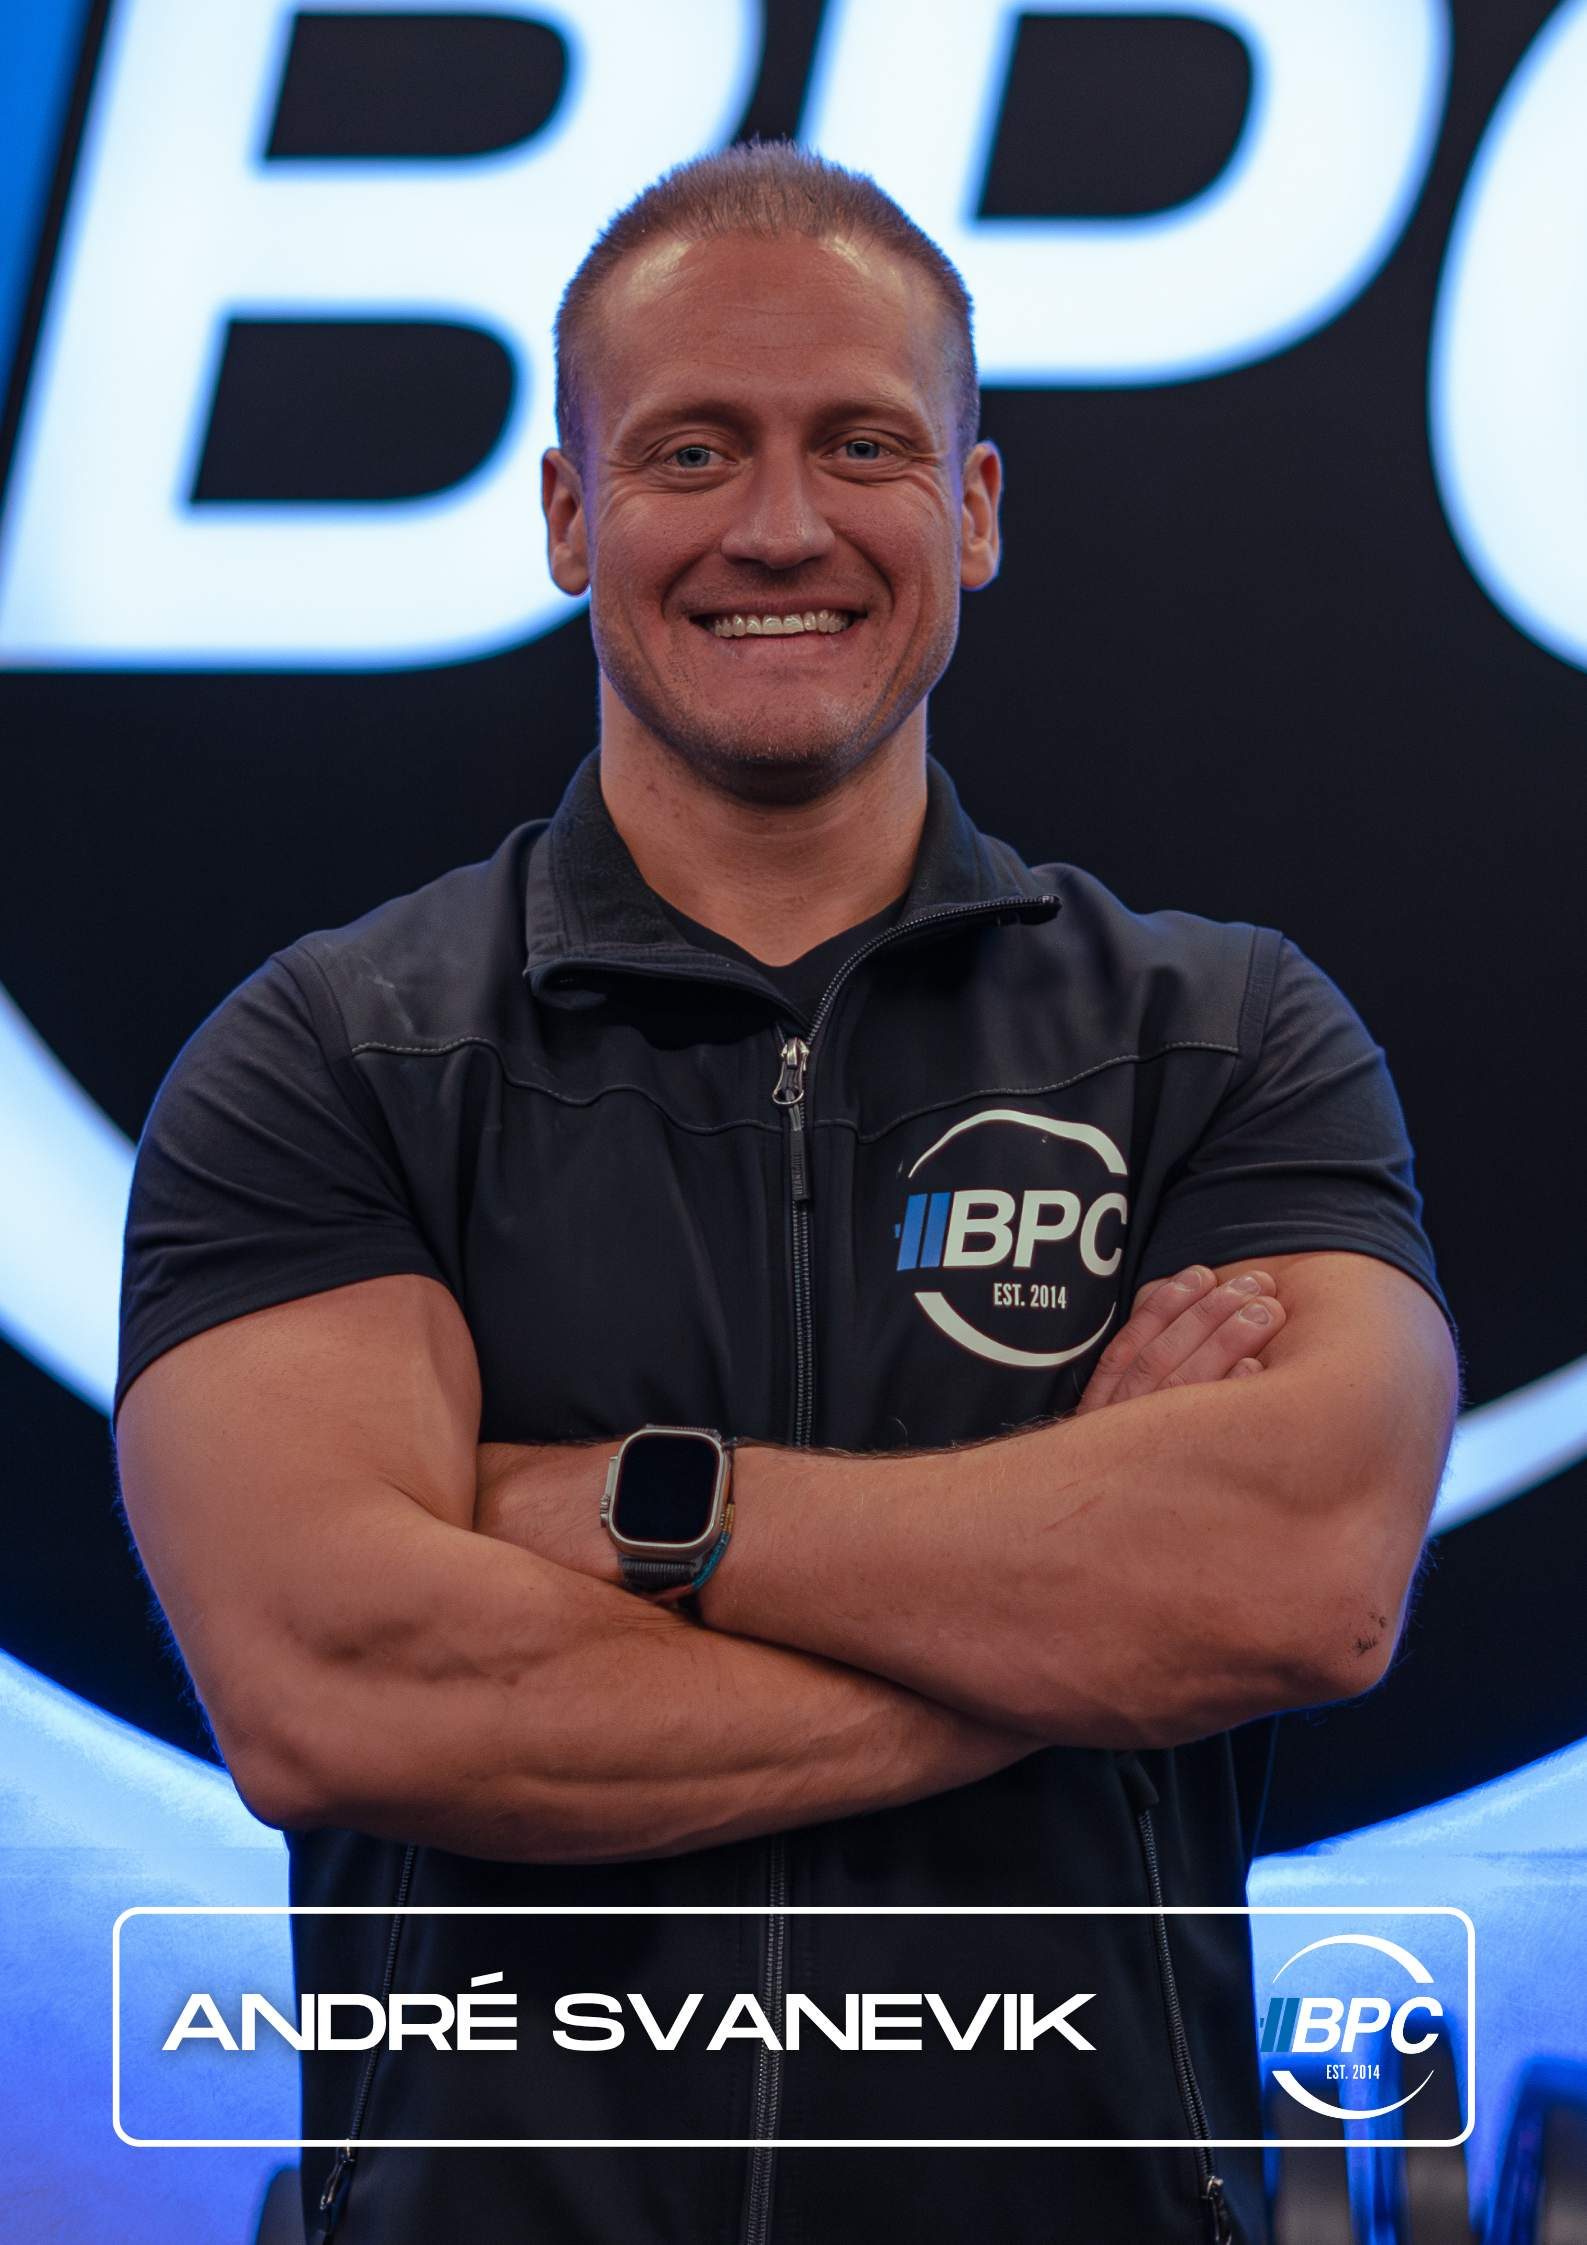
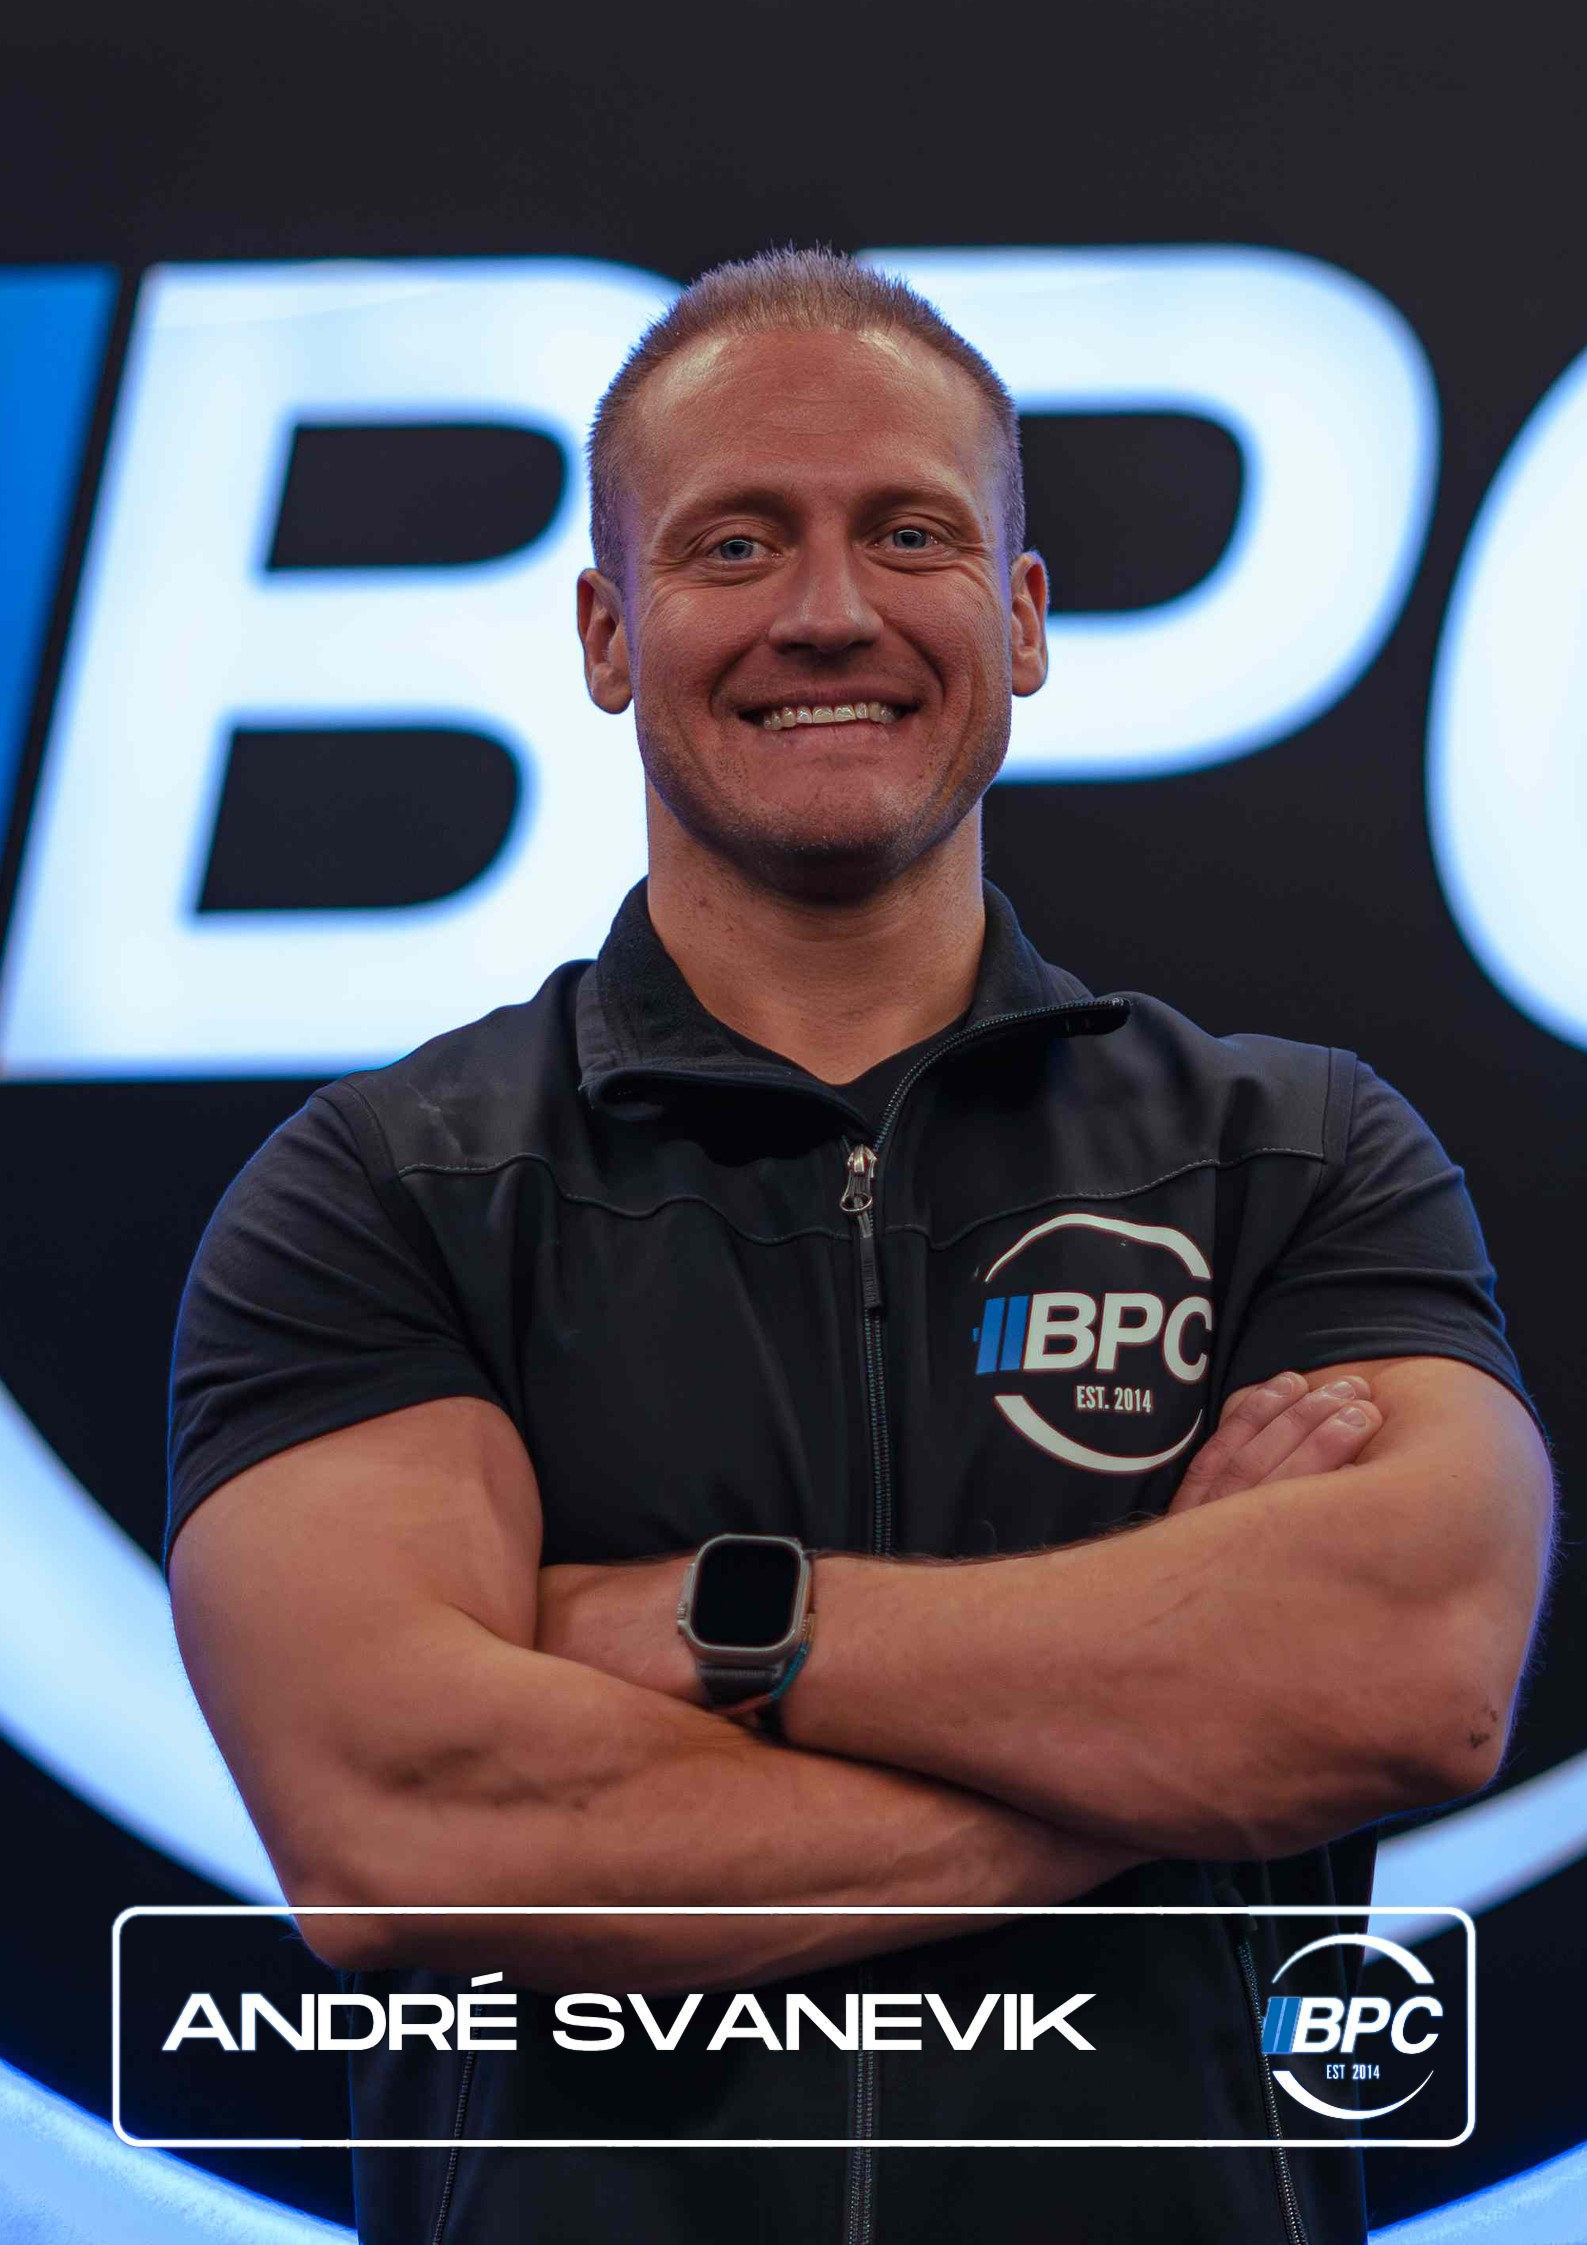
Update André portrait, compact team grid, dynamic membership cards
V0-Chat-Id: cHSRnCFDEbO

diff --git a/components/membership-cards.tsx b/components/membership-cards.tsx
@@ -1,6 +1,6 @@
 'use client'
 
-import { useEffect, useState } from 'react'
+import { useEffect, useRef, useState } from 'react'
 import { ArrowRight } from 'lucide-react'
 import { AppBadges } from '@/components/app-badges'
 import { SmartLink } from '@/components/smart-link'
@@ -16,6 +16,39 @@ const dotStyles: Record<TabColor, string> = {
   korttidGruppe: 'bg-korttid-gruppe',
   velvaere: 'bg-muted-foreground',
   dropin: 'bg-foreground',
+}
+
+const barStyles: Record<TabColor, string> = {
+  egen: 'before:bg-egen',
+  gruppe: 'before:bg-gruppe',
+  korttidEgen: 'before:bg-korttid-egen',
+  korttidGruppe: 'before:bg-korttid-gruppe',
+  velvaere: 'before:bg-muted-foreground',
+  dropin: 'before:bg-foreground',
+}
+
+function useActiveCard(panelKey: string) {
+  const panelRef = useRef<HTMLDivElement>(null)
+  const [activeIndex, setActiveIndex] = useState<number | null>(null)
+
+  useEffect(() => {
+    setActiveIndex(null)
+    const cards = panelRef.current?.querySelectorAll<HTMLElement>('[data-plan-card]')
+    if (!cards?.length) return
+    const list = Array.from(cards)
+    const observer = new IntersectionObserver(
+      (entries) => {
+        for (const entry of entries) {
+          if (entry.isIntersecting) setActiveIndex(list.indexOf(entry.target as HTMLElement))
+        }
+      },
+      { rootMargin: '-45% 0px -45% 0px' },
+    )
+    list.forEach((card) => observer.observe(card))
+    return () => observer.disconnect()
+  }, [panelKey])
+
+  return { panelRef, activeIndex }
 }
 
 const tabs = [
@@ -34,6 +67,7 @@ function PriceList({
   note,
   rows,
   href,
+  active = false,
 }: {
   title: string
   color: TabColor
@@ -41,19 +75,29 @@ function PriceList({
   note?: string
   rows: Row[]
   href?: string
+  active?: boolean
 }) {
   const content = (
     <>
       <header className="flex items-baseline justify-between gap-4 border-b border-border pb-3">
         <h3 className="flex items-center gap-2 text-sm font-semibold">
-          <span aria-hidden="true" className={cn('size-2 rounded-full', dotStyles[color])} />
+          <span
+            aria-hidden="true"
+            className={cn(
+              'size-2 rounded-full transition-transform duration-300 group-hover:scale-150 group-data-[active=true]:scale-150',
+              dotStyles[color],
+            )}
+          />
           {title}
         </h3>
         <span className="text-xs text-muted-foreground">{period}</span>
       </header>
-      <ul className="flex flex-col">
+      <ul className="-mx-2 flex flex-col">
         {rows.map((row) => (
-          <li key={row.name} className="flex items-baseline justify-between gap-4 py-2.5">
+          <li
+            key={row.name}
+            className="flex items-baseline justify-between gap-4 rounded-md px-2 py-2.5 transition-[background-color,transform] duration-200 hover:translate-x-1 hover:bg-muted/60 motion-reduce:hover:translate-x-0"
+          >
             <span className="flex flex-col">
               <span className="text-sm font-medium leading-snug">{row.name}</span>
               {row.note && <span className="text-xs text-muted-foreground">{row.note}</span>}
@@ -66,14 +110,37 @@ function PriceList({
     </>
   )
 
+  const cardClass = cn(
+    'group relative flex flex-col overflow-hidden rounded-xl border border-border bg-card px-5 py-4 transition-all duration-300 ease-out',
+    'before:absolute before:inset-y-0 before:left-0 before:w-1 before:origin-top before:scale-y-0 before:transition-transform before:duration-300',
+    'hover:-translate-y-0.5 hover:border-primary/50 hover:shadow-lg hover:before:scale-y-100',
+    'data-[active=true]:border-primary/50 data-[active=true]:before:scale-y-100',
+    'active:scale-[0.99] motion-reduce:transition-none motion-reduce:hover:translate-y-0',
+    barStyles[color],
+  )
+
   if (!href) {
-    return <article className="flex flex-col rounded-xl border border-border bg-card px-5 py-4">{content}</article>
+    return (
+      <article
+        tabIndex={0}
+        data-plan-card
+        data-active={active}
+        className={cn(cardClass, 'outline-none focus-visible:border-primary focus-visible:before:scale-y-100')}
+      >
+        {content}
+      </article>
+    )
   }
 
   return (
     <SmartLink
       href={href}
-      className="group flex flex-col rounded-xl border border-border bg-card px-5 py-4 transition-[transform,border-color,box-shadow] duration-300 hover:-translate-y-0.5 hover:border-foreground/30 hover:shadow-lg focus-visible:outline-none focus-visible:ring-2 focus-visible:ring-ring focus-visible:ring-offset-2 focus-visible:ring-offset-background motion-reduce:transition-none motion-reduce:hover:translate-y-0"
+      data-plan-card
+      data-active={active}
+      className={cn(
+        cardClass,
+        'focus-visible:outline-none focus-visible:ring-2 focus-visible:ring-ring focus-visible:ring-offset-2 focus-visible:ring-offset-background',
+      )}
     >
       {content}
       <span className="mt-auto flex items-center justify-end gap-1.5 border-t border-border pt-3 text-sm font-semibold text-foreground">
@@ -87,7 +154,7 @@ function PriceList({
   )
 }
 
-function PlanList({ group }: { group: PlanGroup }) {
+function PlanList({ group, active }: { group: PlanGroup; active: boolean }) {
   return (
     <PriceList
       title={group.title}
@@ -96,6 +163,7 @@ function PlanList({ group }: { group: PlanGroup }) {
       note={group.note}
       rows={group.plans}
       href={links.signup}
+      active={active}
     />
   )
 }
@@ -127,6 +195,7 @@ export function MembershipCards() {
   }
 
   const category = membershipCategories.find((c) => c.id === active)
+  const { panelRef, activeIndex } = useActiveCard(active)
 
   return (
     <div className="flex flex-col gap-5">
@@ -167,6 +236,7 @@ export function MembershipCards() {
         role="tabpanel"
         aria-labelledby={`tab-${active}`}
         key={active}
+        ref={panelRef}
         className="animate-in fade-in duration-300 flex flex-col gap-4 motion-reduce:animate-none"
       >
         <p className="max-w-2xl text-pretty text-sm leading-relaxed text-muted-foreground">
@@ -180,13 +250,13 @@ export function MembershipCards() {
               category.groups.length >= 3 ? 'md:grid-cols-2 lg:grid-cols-3' : 'md:grid-cols-2',
             )}
           >
-            {category.groups.map((group) => (
-              <PlanList key={group.title} group={group} />
+            {category.groups.map((group, index) => (
+              <PlanList key={group.title} group={group} active={activeIndex === index} />
             ))}
           </div>
         ) : (
           <div className="grid gap-3 md:grid-cols-2">
-            <PriceList title="Drop-in" color="dropin" period="Pr besøk" rows={dropIns} />
+            <PriceList title="Drop-in" color="dropin" period="Pr besøk" rows={dropIns} active={activeIndex === 0} />
           </div>
         )}
 

diff --git a/components/team-grid.tsx b/components/team-grid.tsx
@@ -26,35 +26,38 @@ export function TeamGrid() {
         </div>
 
         {team.length > 0 ? (
-          <div className="flex flex-col gap-14 md:gap-20">
+          <div className="flex flex-col gap-10 md:gap-12">
             {teamGroups.map((group) => (
-              <div key={group.id} className="flex flex-col gap-6">
+              <div key={group.id} className="flex flex-col gap-4">
                 <div className="flex items-baseline justify-between gap-4 border-b border-border pb-3">
                   <h3 id={`team-${group.id}`} className="text-xl font-semibold tracking-tight md:text-2xl">
                     {group.title}
                   </h3>
                   <span className="text-sm text-muted-foreground">{group.members.length}</span>
                 </div>
-          <ul aria-labelledby={`team-${group.id}`} className="grid grid-cols-2 gap-6 md:grid-cols-3 lg:grid-cols-4">
+          <ul
+            aria-labelledby={`team-${group.id}`}
+            className="grid grid-cols-3 gap-3 sm:grid-cols-4 md:gap-4 lg:grid-cols-6"
+          >
             {group.members.map((member) => (
-              <li key={member.name} className="flex flex-col gap-3">
-                <div className="relative aspect-[1587/2245] overflow-hidden rounded-2xl bg-muted">
+              <li key={member.name} className="flex flex-col gap-2">
+                <div className="relative aspect-[1587/2245] overflow-hidden rounded-xl bg-muted">
                   {member.image ? (
                     <Image
                       src={member.image}
                       alt={`Portrett av ${member.name}`}
                       fill
-                      sizes="(min-width: 1024px) 25vw, (min-width: 768px) 33vw, 50vw"
+                      sizes="(min-width: 1024px) 16vw, (min-width: 640px) 25vw, 33vw"
                       className="object-cover"
                     />
                   ) : (
-                    <div className="flex h-full items-center justify-center text-4xl font-semibold text-muted-foreground" aria-hidden="true">
+                    <div className="flex h-full items-center justify-center text-2xl font-semibold text-muted-foreground" aria-hidden="true">
                       {initials(member.name)}
                     </div>
                   )}
                 </div>
-                <div className="flex flex-col gap-1">
-                  <h4 className="text-base font-semibold md:text-lg">{member.name}</h4>
+                <div className="flex flex-col gap-0.5">
+                  <h4 className="text-sm font-semibold">{member.name}</h4>
                   {member.role ? <p className="text-sm font-medium text-primary">{member.role}</p> : null}
                   {member.bio ? (
                     <p className="pt-1 text-pretty leading-relaxed text-muted-foreground">{member.bio}</p>
